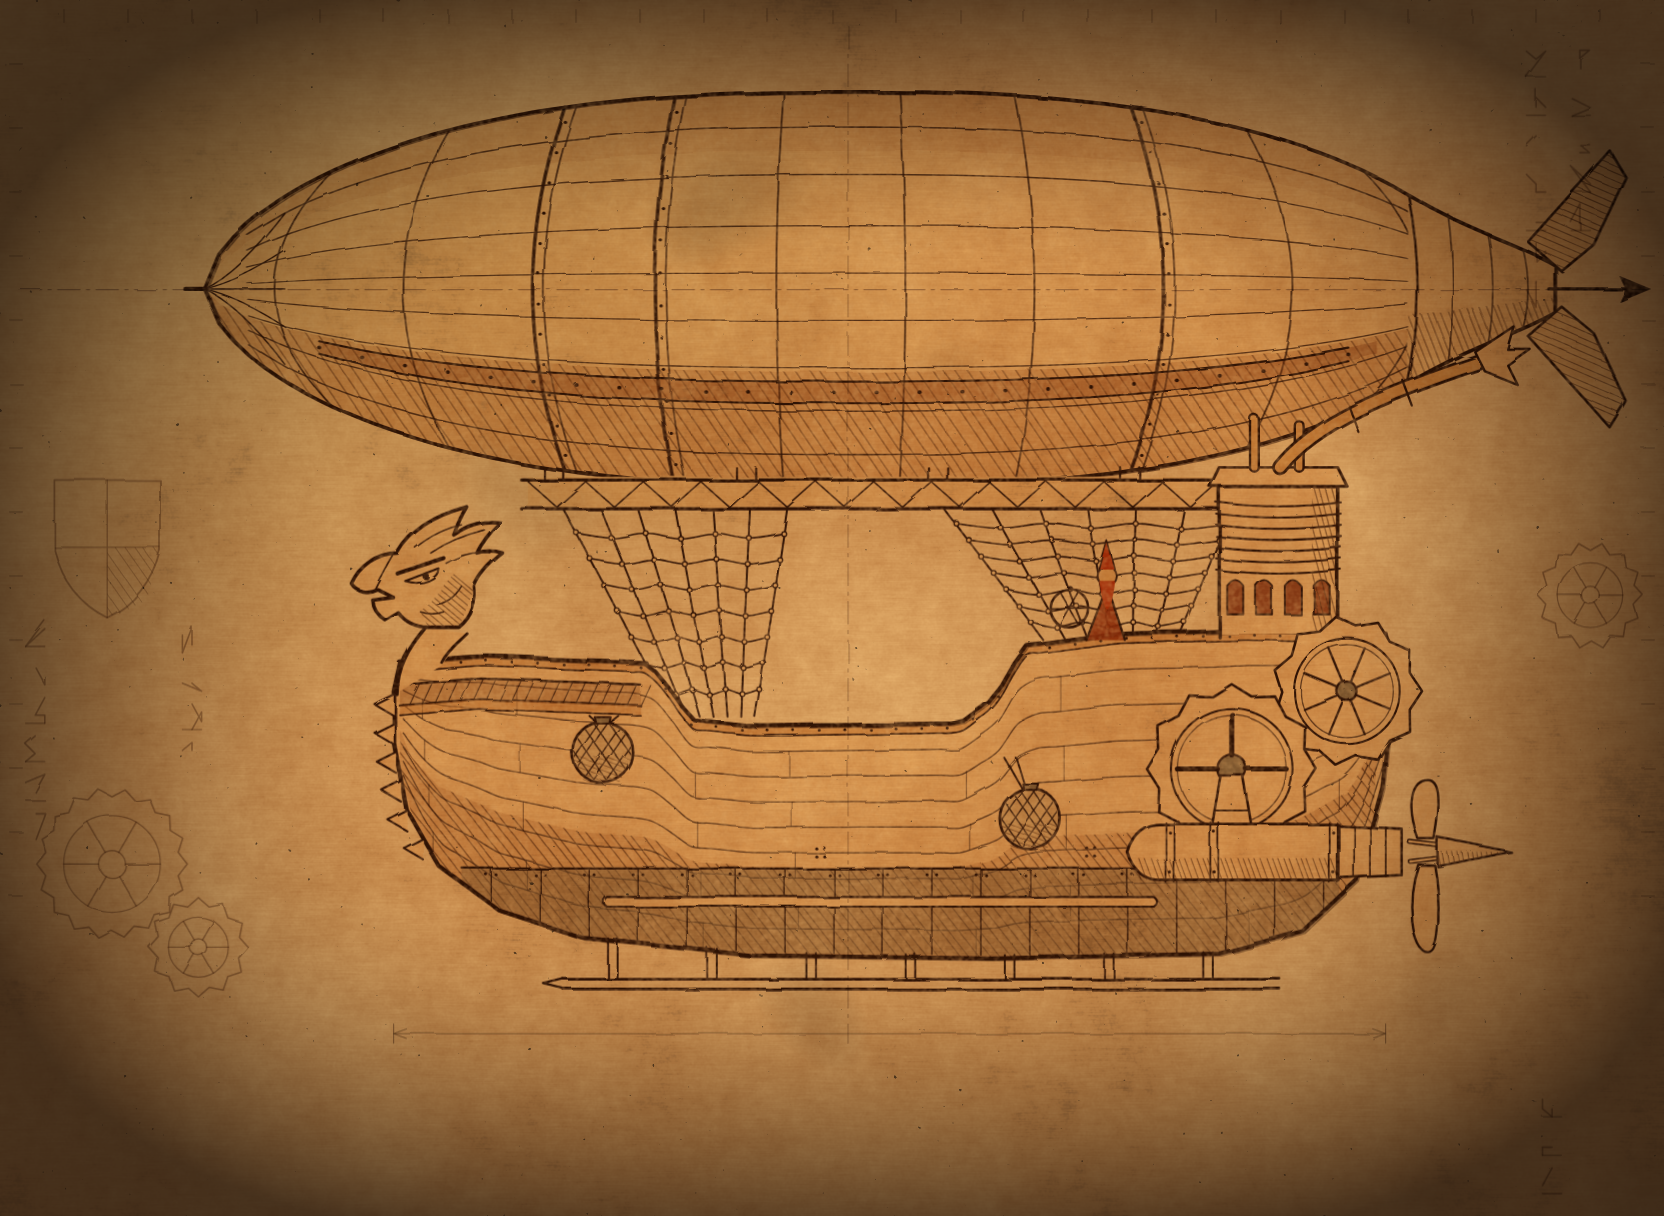
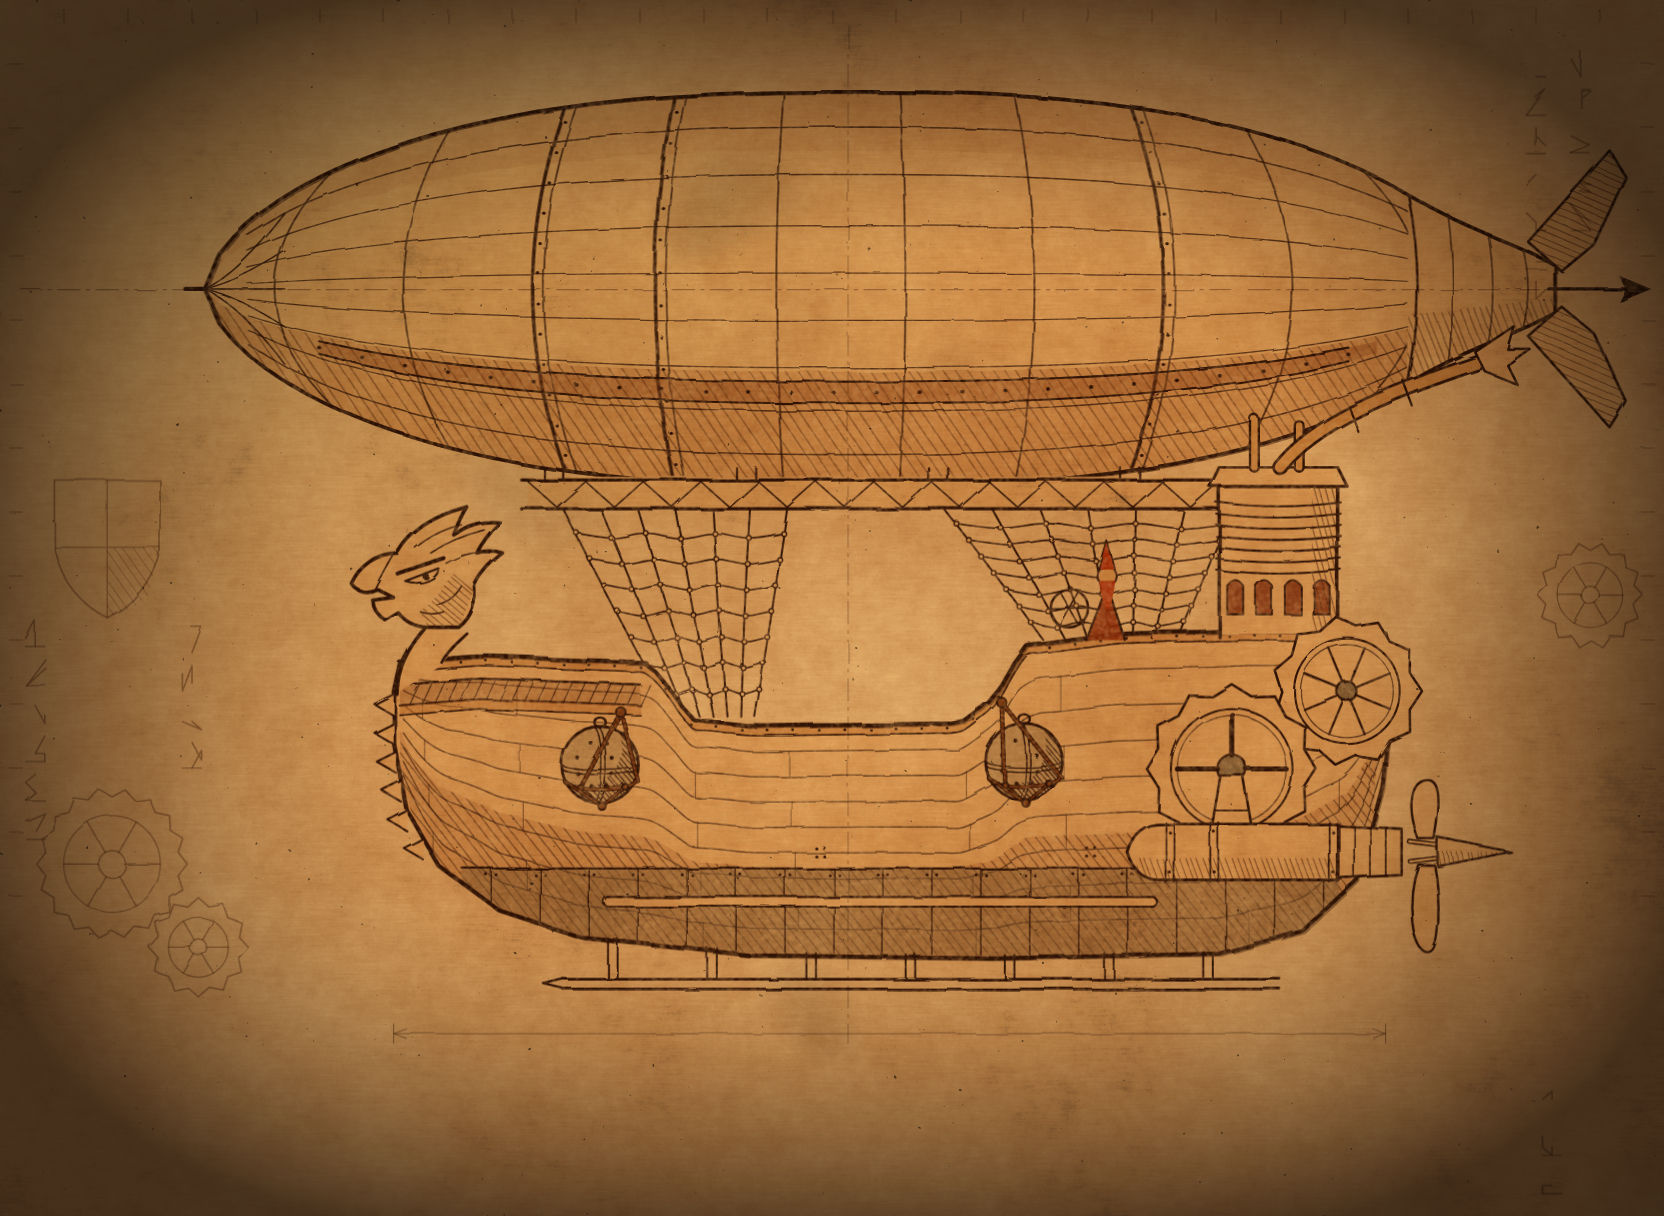
Redraw the hanging bombs on the blueprint as iron balls in rope

diff --git a/web/js/viewer3d.js b/web/js/viewer3d.js
@@ -22,6 +22,8 @@ const VIEWS = {
     drive: [new THREE.Vector3(2.5, 2.2, -7.6), new THREE.Vector3(40, 2.4, -7.6), 3.6],
     bow: [new THREE.Vector3(2.5, 1.6, 5.2), new THREE.Vector3(40, 1.8, 5.2), 3.4],
     waist: [new THREE.Vector3(2.5, 2.6, 0.6), new THREE.Vector3(40, 2.8, 0.6), 5.2],
+    bomb: [new THREE.Vector3(2.8, 3.1, 4.66), new THREE.Vector3(40, 3.3, 4.66), 1.3],
+    bomb_aft: [new THREE.Vector3(2.8, 2.0, -2.73), new THREE.Vector3(40, 2.2, -2.73), 1.1],
     below: [new THREE.Vector3(0, 1, -1.5), new THREE.Vector3(6, -40, -1.4), 12],
 };
 

diff --git a/tools/web_art.py b/tools/web_art.py
@@ -218,21 +218,98 @@ def belt():
     return out
 
 
-def bomb(x, y, r, rope_from):
-    """A round bomb hanging in a rope net."""
+ROPE = "#8f5a2c"
+IRON = "#d6cfc2"
+
+
+def arc_pts(cx, cy, rx, ry, a0, a1, n=24):
+    return [(cx + rx * math.cos(math.radians(a0 + (a1 - a0) * i / n)), cy + ry * math.sin(math.radians(a0 + (a1 - a0) * i / n))) for i in range(n + 1)]
+
+
+def crescent(cx, cy, r, dx, dy):
+    """The shaded side of a ball lit from the upper left: the ball minus a shifted ball."""
     out = []
-    for fx, fy in rope_from:
-        out.append(art.path(f"M{fx:.1f} {fy:.1f} L{x + (fx - x) * 0.25:.1f} {y - r + 2:.1f}", 1.2))
-    pts = round_points(x, y, r - 1, 20)
-    out += [art.circle(x, y, r, 1.7, art.INK, "#e6dccb"), art.hatch(pts, 55, 6.5, 0.9, art.INK, 0.9), art.hatch(pts, 125, 6.5, 0.9, art.INK, 0.9),
-            art.hatch([(x - r, y + 3), (x + r, y + 3), (x + r * 0.6, y + r), (x - r * 0.6, y + r)], 20, 3, 0.6),
-            art.path(f"M{x - 5:.1f} {y - r - 3:.1f} L{x + 5:.1f} {y - r - 3:.1f} L{x + 4:.1f} {y - r + 1:.1f} L{x - 4:.1f} {y - r + 1:.1f} Z", 1.2, art.INK, STEEL)]
+    for i in range(41):
+        a = math.radians(-60 + 210 * i / 40)
+        out.append((cx + r * math.cos(a), cy + r * math.sin(a)))
+    for i in range(41):
+        a = math.radians(150 - 210 * i / 40)
+        x, y = cx + dx + r * math.cos(a), cy + dy + r * math.sin(a)
+        if math.hypot(x - cx, y - cy) <= r:
+            out.append((x, y))
+    return out
+
+
+def ball(cx, cy, r, heavy=False):
+    """An iron ball of four plates as on the model: the outline, one seam round the middle and one over the top (a cross on the side we see,
+    a little turned), rivets in pairs beside the seams, the lug on top, the shade of a ball lit from the upper left."""
+    out = [art.circle(cx, cy, r, 1.8, art.INK, IRON)]
+    sh = crescent(cx, cy, r, -r * 0.42, -r * 0.42)
+    out.append(art.hatch(sh, 50, 2.4, 0.8, art.INK, 0.8))
+    if heavy:
+        out.append(art.hatch(sh, 140, 2.8, 0.6, art.INK, 0.6))
+    # the seams: double lines; the middle one bowed (seen a little from above), the upright one bowed (the ball turned a little)
+    sx = cx - r * 0.12
+    for k in (-1.3, 1.3):
+        out.append(art.path(art.smooth(arc_pts(cx, cy + k + 1, r * 0.99, r * 0.16, 0, 180, 16)), 0.9))
+        out.append(art.path(art.smooth(arc_pts(sx + k, cy, r * 0.22, r * 0.99, -90, 90, 16)), 0.9))
+    # rivets in pairs beside the seams, on each plate
+    for qx in (-1, 1):
+        for qy in (-1, 1):
+            out.append(art.dot(sx + qx * r * 0.45, cy + qy * r * 0.2 + 1, 1.3))
+            out.append(art.dot(sx + r * 0.1 + qx * r * 0.2, cy + qy * r * 0.55, 1.3))
+    out.append(f'<ellipse cx="{cx:.1f}" cy="{cy - r - 2.6:.1f}" rx="3.6" ry="3.0" fill="none" stroke="{art.INK}" stroke-width="1.5"/>')
+    return out
+
+
+def rope(points, w=1.6, twist=True):
+    """A rope: a brown line in ink with short slanted strokes along it, as the drawing's wale."""
+    d = art.smooth(points) if len(points) > 2 else art.poly(points)
+    out = [art.path(d, w + 1.2, art.INK), art.path(d, w, ROPE)]
+    if twist:
+        for (x0, y0), (x1, y1) in zip(points, points[1:]):
+            L = math.hypot(x1 - x0, y1 - y0)
+            n = int(L / 3.2)
+            for i in range(1, n):
+                t = i / n
+                x, y = x0 + (x1 - x0) * t, y0 + (y1 - y0) * t
+                ux, uy = (x1 - x0) / L, (y1 - y0) / L
+                out.append(art.path(f"M{x - uy * 1.3 - ux * 0.9:.1f} {y + ux * 1.3 - uy * 0.9:.1f} L{x + uy * 1.3 + ux * 0.9:.1f} {y - ux * 1.3 + uy * 0.9:.1f}", 0.5, art.INK, op=0.8))
+    return out
+
+
+def knot(x, y, r=2.6):
+    return [art.circle(x, y, r, 1.2, art.INK, ROPE)]
+
+
+def cradle(cx, cy, r, kx, ky, twist=True, back=False):
+    """The rope basket: from the knot two ropes run straight down in front of the ball to a ring round it under its middle; three ropes from the ring
+    meet under the ball in a knot. back: the rope behind the ball, thin, seen past its side."""
+    out = []
+    ring = arc_pts(cx, cy + r * 0.42, r * 0.92, r * 0.22, 0, 180, 16)
+    left, right = ring[-1], ring[0]
+    if back:
+        out.append(art.path(art.poly([(kx, ky), (cx - r * 1.0, cy - r * 0.1)]), 0.9, art.INK, op=0.7))
+    out += rope([(kx, ky), ring[11]], twist=twist)
+    out += rope([(kx, ky), (right[0] + 1.5, right[1])], twist=twist)
+    out += rope(ring, 1.3, twist)
+    bottom = (cx + r * 0.05, cy + r * 1.08)
+    for i in (4, 11):
+        out += rope([ring[i], bottom], 1.1, twist)
+        out += knot(*ring[i], 1.9)
+    out += rope([left, bottom], 1.1, twist)
+    out += knot(*bottom, 2.3)
+    out += knot(kx, ky, 3.0)
     return out
 
 
 def bombs():
-    """The two bombs that hang over the side: one under the forecastle rail, one under the stern deck's front corner."""
-    return bomb(mx(4.67), my(2.75), 19, [(mx(4.9), my(3.3)), (mx(4.4), my(3.3))]) + bomb(mx(-2.75), my(1.75), 19, [(mx(-2.3), my(2.67)), (mx(-2.5), my(2.67))])
+    """The two bombs that hang over the side, as on the model: iron balls of four riveted plates in a rope basket, hung by a knot from the forecastle's
+    lower brass band and from the corner of the stern deck's trim. Size: 1.17 of the model across (r 24). Chosen of three tries (build/web/shots/bomb_variants.png)."""
+    out = []
+    for cx, cy, kx, ky in ((375, 478, 388, 445), (640, 476, 626, 439)):
+        out += ball(cx, cy, 24) + cradle(cx, cy, 24, kx, ky)
+    return out
 
 
 FORECASTLE_END = 405        # where the forecastle's rail steps down to the waist, as hull_top() has it
